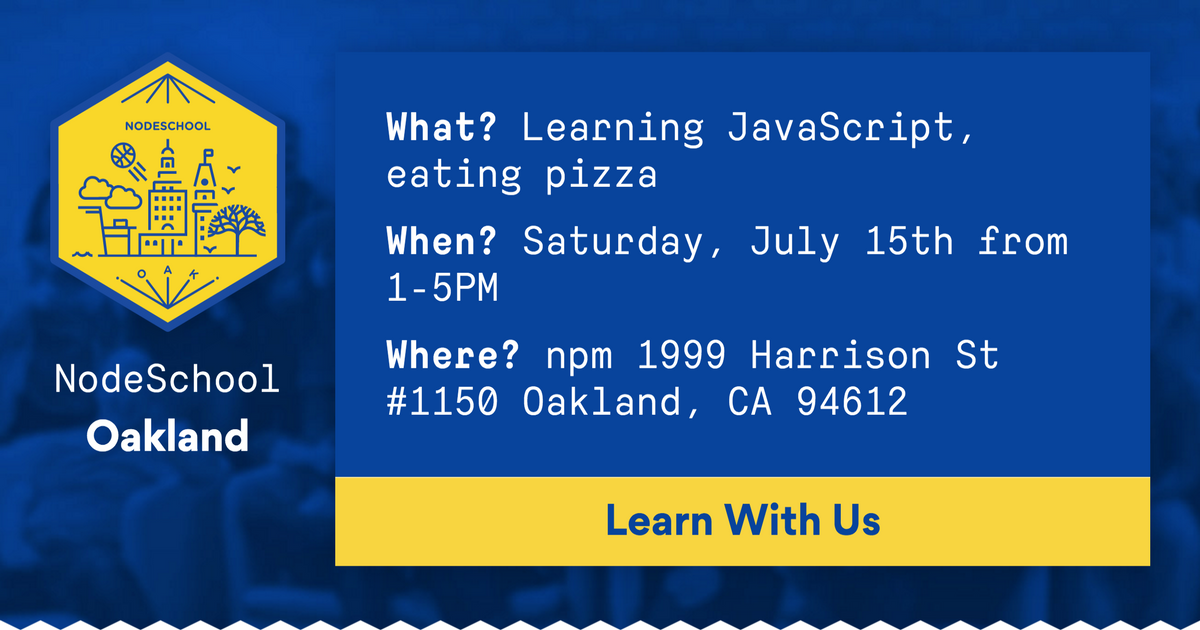
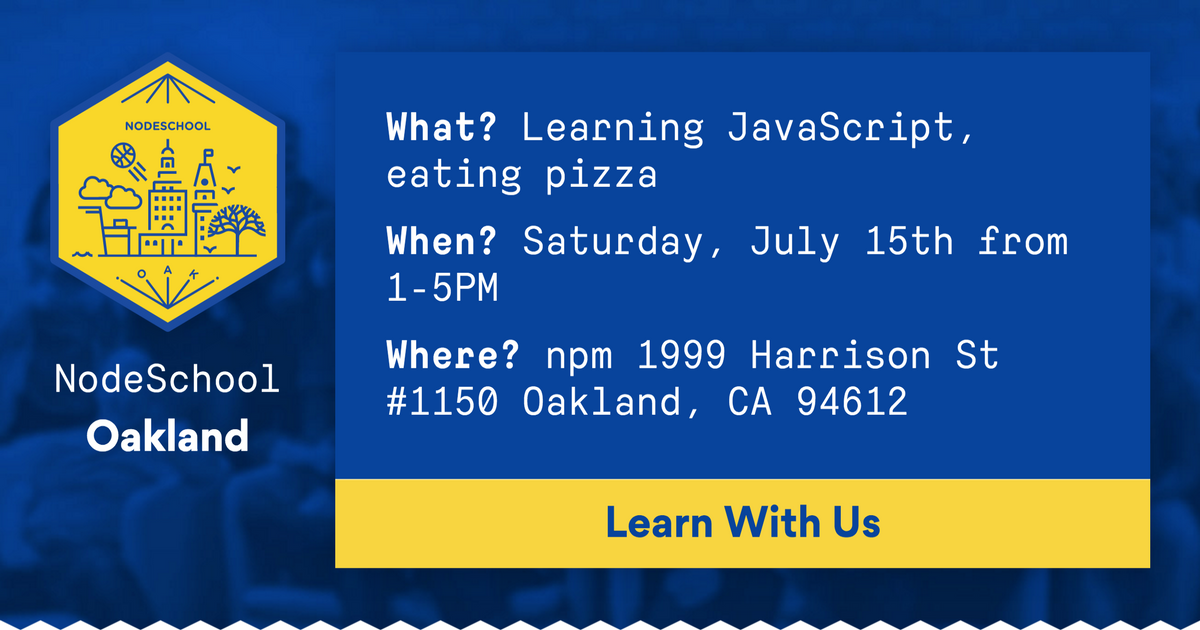
fix small layout issue with social image

Changed region(s): [[0.2775, 0.754, 0.9558, 0.9048], [0.7092, 0.8143, 0.74, 0.8444]]

diff --git a/docs/styles/index.css b/docs/styles/index.css
@@ -709,9 +709,10 @@ ul {
   left: 0;
 }
 .social .header {
+  display: flex;
   width: 100%;
   height: 100%;
-  padding: 50px;
+  padding: 50px 50px 60px 50px;
 }
 .social .header:after {
   background-size: 40px 26px;
@@ -730,15 +731,21 @@ ul {
 .social .next-event__description {
   padding: 30px 50px;
 }
+.social .next-event__actions {
+  position: absolute;
+  right: 0;
+  bottom: 0;
+  left: 0;
+}
 .social .next-event__action__learn {
   width: 100%;
   line-height: 160%;
   padding-top: 15px;
 }
 .social__message {
-  float: left;
+  position: relative;
+  flex: 1;
   margin: 0 0 0 50px;
-  width: 815px;
   font-size: 38px;
   line-height: 45px;
 }
